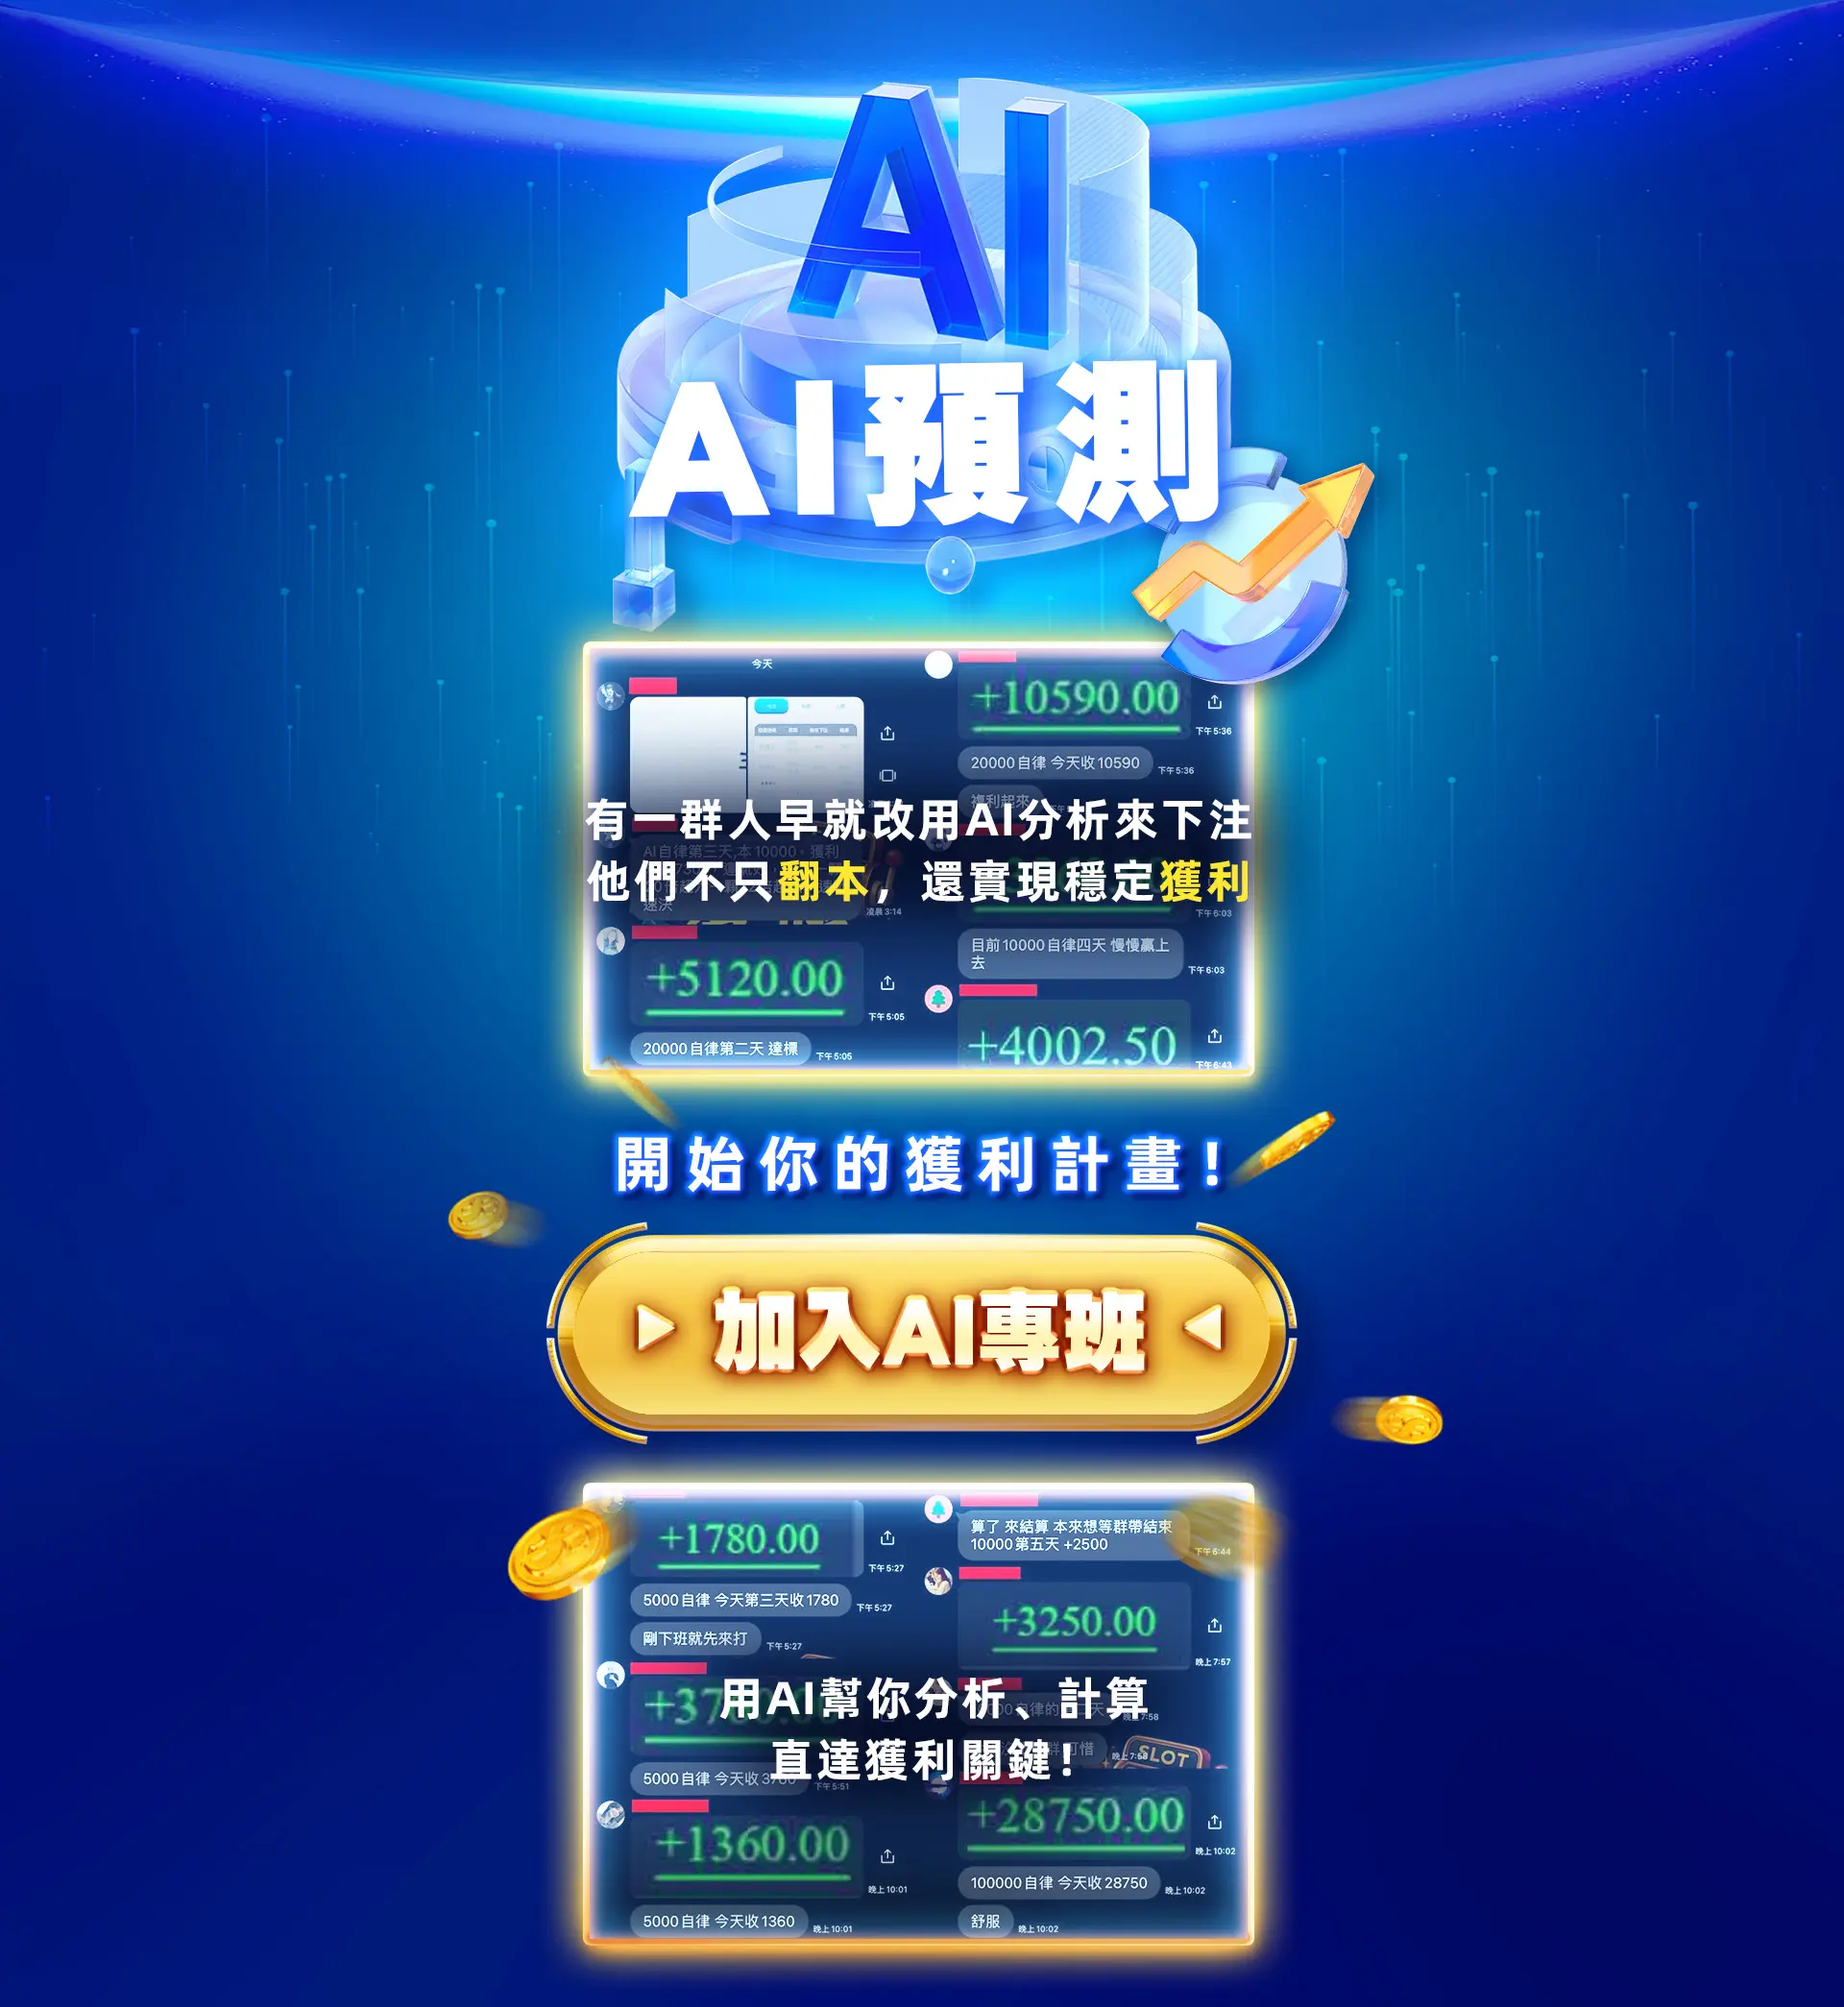
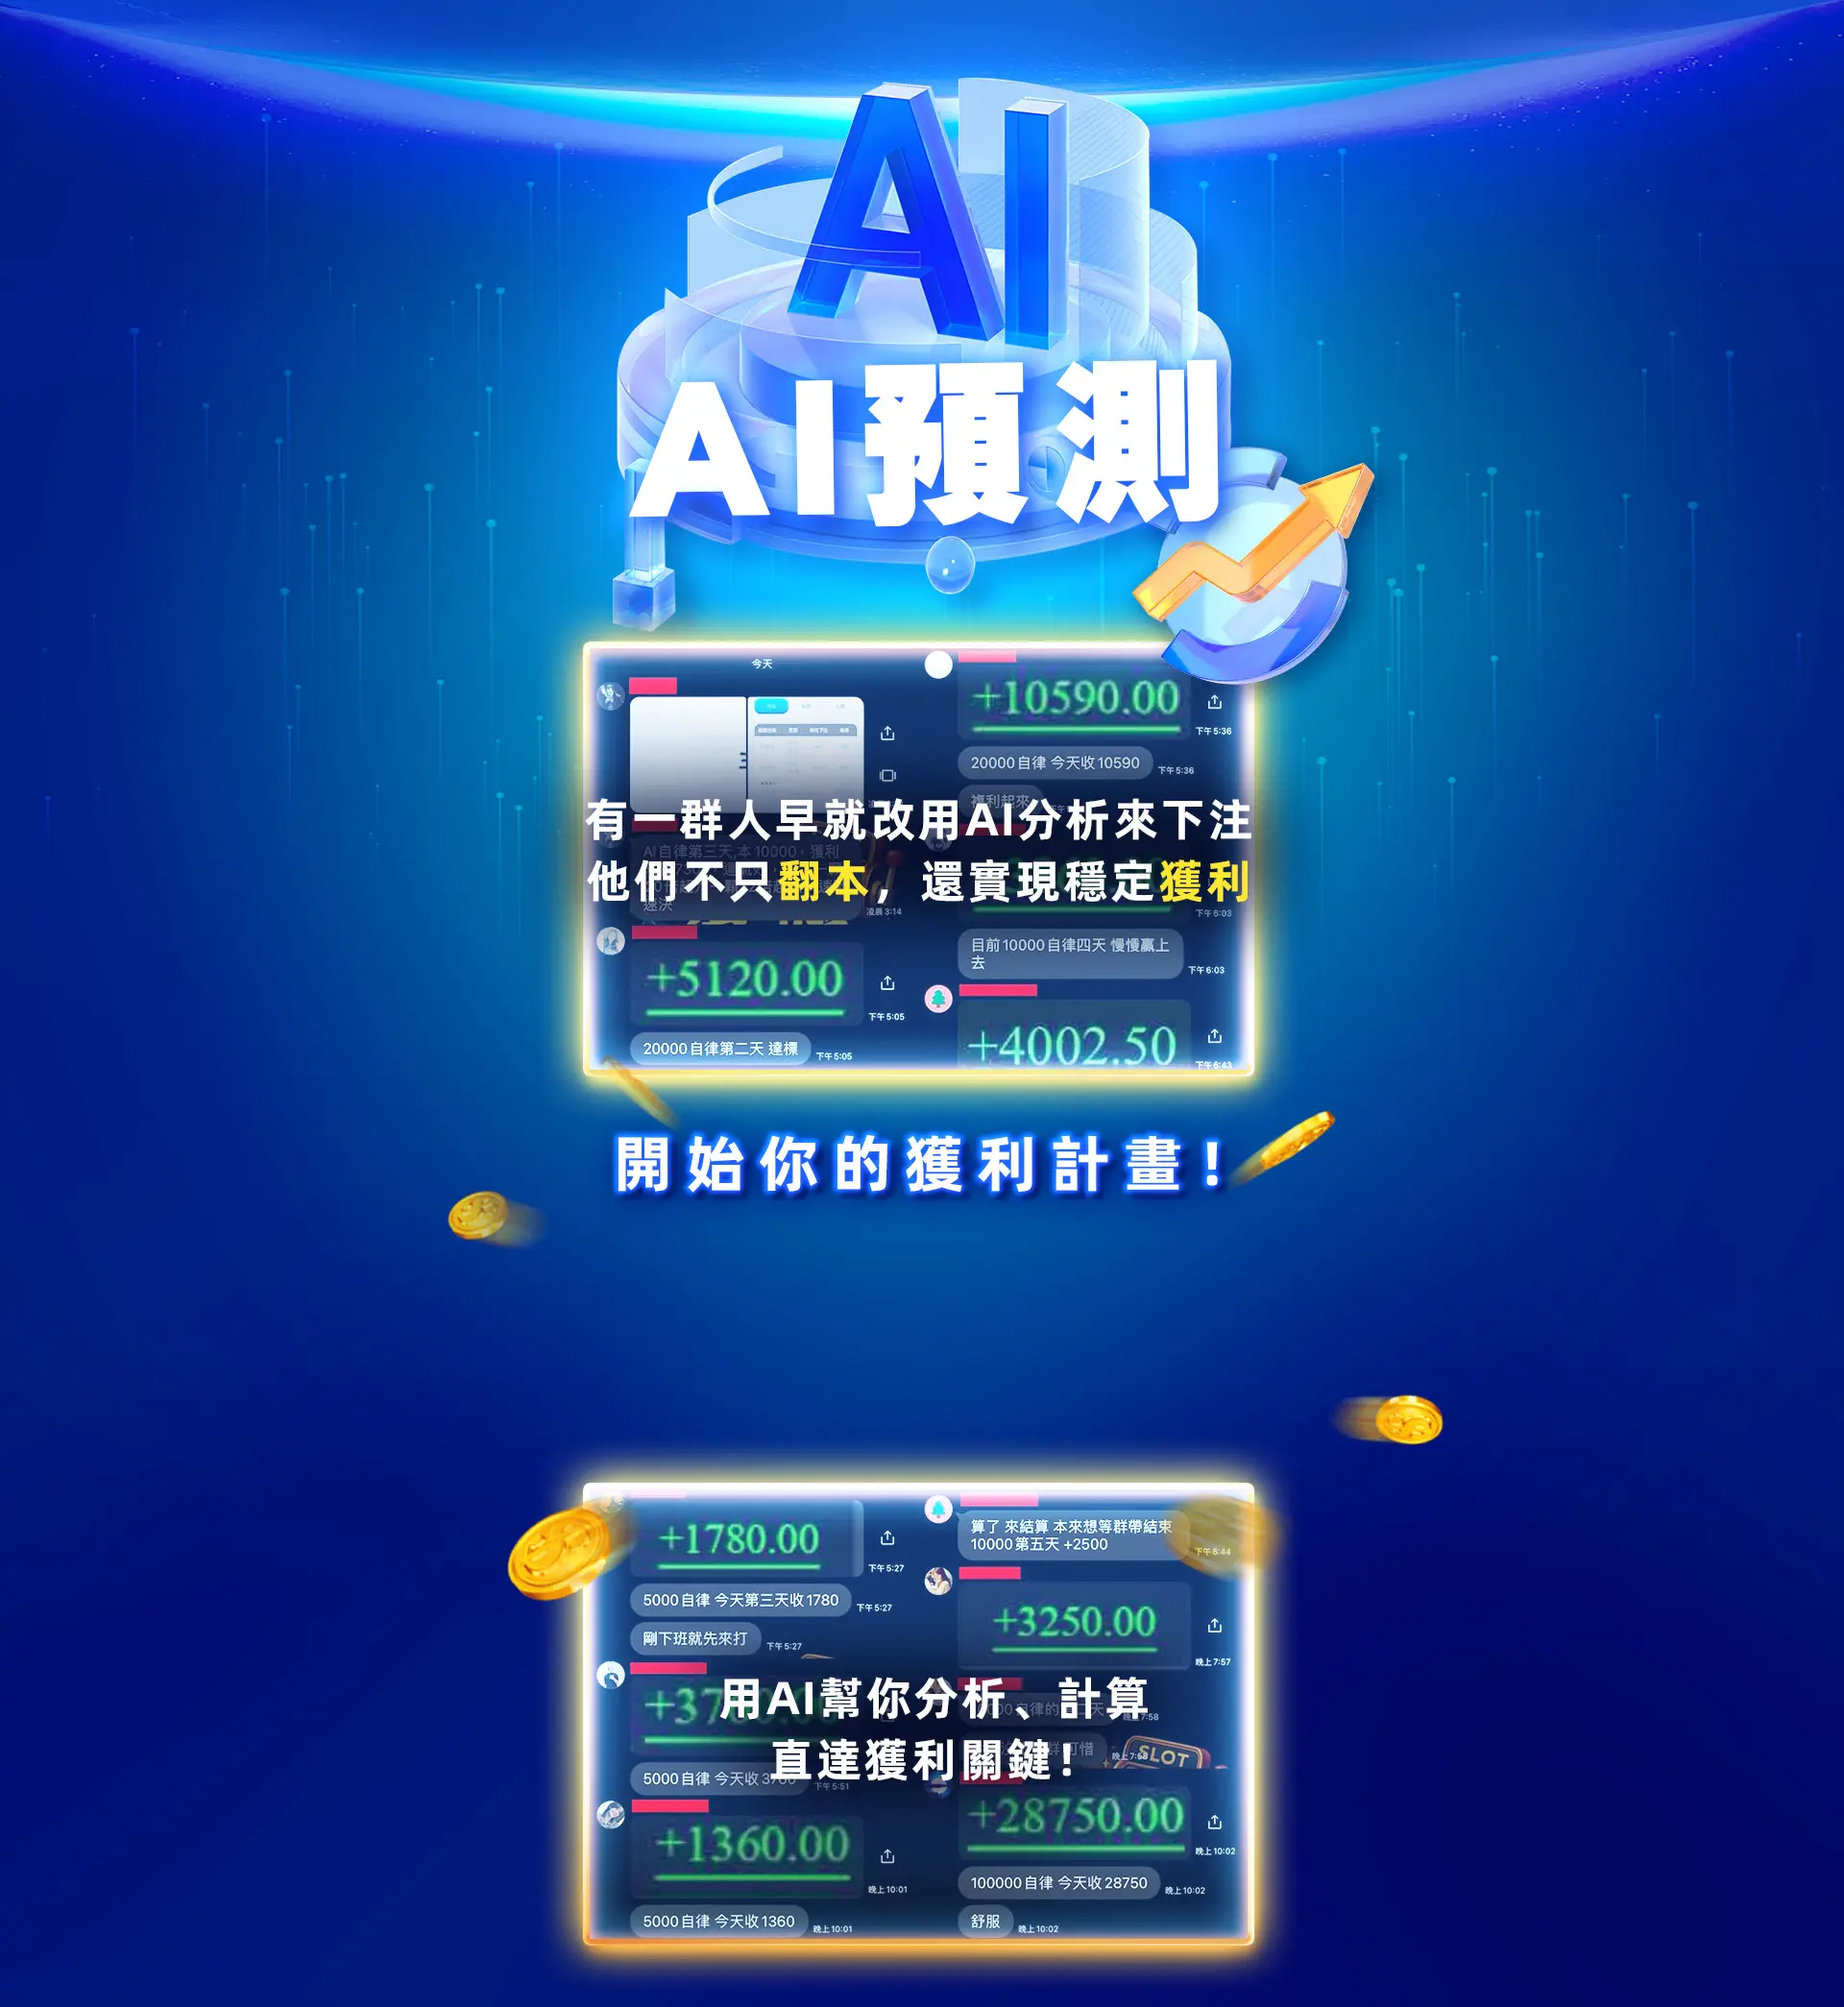
feat: 添加按钮图片并更新点击区域样式
将点击区域从div改为图片按钮，提升用户体验
调整响应式设计以适应不同屏幕尺寸

Changed region(s): [[0.2812, 0.5909, 0.7188, 0.7464]]

diff --git a/index.html b/index.html
@@ -1,46 +1,50 @@
 <!DOCTYPE html>
 <html lang="zh-TW">
+
 <head>
     <meta charset="UTF-8">
     <meta name="viewport" content="width=device-width, initial-scale=1.0, user-scalable=no">
     <title>樂樂ai預測</title>
-    
+
     <!-- Meta Pixel Code -->
     <script>
-    !function(f,b,e,v,n,t,s)
-    {if(f.fbq)return;n=f.fbq=function(){n.callMethod?
-    n.callMethod.apply(n,arguments):n.queue.push(arguments)};
-    if(!f._fbq)f._fbq=n;n.push=n;n.loaded=!0;n.version='2.0';
-    n.queue=[];t=b.createElement(e);t.async=!0;
-    t.src=v;s=b.getElementsByTagName(e)[0];
-    s.parentNode.insertBefore(t,s)}(window, document,'script',
-    'https://connect.facebook.net/en_US/fbevents.js');
-    fbq('init', '1147221750795823');
-    fbq('track', 'PageView');
+        !function (f, b, e, v, n, t, s) {
+            if (f.fbq) return; n = f.fbq = function () {
+                n.callMethod ?
+                n.callMethod.apply(n, arguments) : n.queue.push(arguments)
+            };
+            if (!f._fbq) f._fbq = n; n.push = n; n.loaded = !0; n.version = '2.0';
+            n.queue = []; t = b.createElement(e); t.async = !0;
+            t.src = v; s = b.getElementsByTagName(e)[0];
+            s.parentNode.insertBefore(t, s)
+        }(window, document, 'script',
+            'https://connect.facebook.net/en_US/fbevents.js');
+        fbq('init', '1147221750795823');
+        fbq('track', 'PageView');
     </script>
     <noscript><img height="1" width="1" style="display:none"
-    src="https://www.facebook.com/tr?id=1147221750795823&ev=PageView&noscript=1"
-    /></noscript>
+            src="https://www.facebook.com/tr?id=1147221750795823&ev=PageView&noscript=1" /></noscript>
     <!-- End Meta Pixel Code -->
-    
+
     <style>
         * {
             margin: 0;
             padding: 0;
             box-sizing: border-box;
         }
-        
-        html, body {
+
+        html,
+        body {
             height: 100%;
         }
-        
+
         .container {
             position: relative;
             width: 100vw;
             height: 100vh;
             overflow: hidden;
         }
-        
+
         .container::before {
             content: '';
             position: absolute;
@@ -56,7 +60,7 @@
             transform: scale(1.1);
             z-index: 1;
         }
-        
+
         .fullscreen-img {
             position: absolute;
             top: 50%;
@@ -68,35 +72,54 @@
             transform: translate(-50%, -50%);
             z-index: 2;
         }
-        
-        .clickable-area {
+
+        .btn-img {
             position: absolute;
-            bottom: 0;
-            left: 0;
-            width: 100%;
-            height: 50%;
+            bottom: 30%;
+            left: 50%;
+            transform: translateX(-50%);
+            width: auto;
+            height: auto;
+            max-width: 400px;
+            max-height: 30%;
+            object-fit: contain;
             cursor: pointer;
             z-index: 10;
         }
-        
+
         /* 響應式設計 */
         @media screen and (max-width: 768px) {
             .fullscreen-img {
                 object-position: center center;
             }
+
+            .btn-img {
+                bottom: calc(37vh);
+                max-width: 50%;
+                max-height: 25%;
+            }
         }
-        
+
         @media screen and (orientation: landscape) and (max-height: 500px) {
             .fullscreen-img {
                 object-position: center;
             }
+
+            .btn-img {
+                bottom: 5%;
+                max-width: 70%;
+                max-height: 20%;
+            }
         }
     </style>
 </head>
+
 <body>
     <div class="container">
         <img src="image.webp" alt="全民大跳槽 51888" class="fullscreen-img">
-        <div class="clickable-area" onclick="fbq('track', 'Lead'); window.open('https://lin.ee/zZw3NOb', '_blank')"></div>
+        <img src="btn.webp" alt="立即領取51888" class="btn-img"
+            onclick="fbq('track', 'Lead'); window.open('https://lin.ee/zZw3NOb', '_blank')">
     </div>
 </body>
+
 </html>
